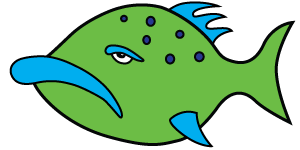
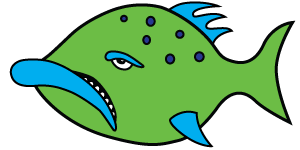
got both images on the bigBloater

Changed region(s): [[0.03, 0.3467, 0.42, 0.88], [0.33, 0.2933, 0.48, 0.48]]

diff --git a/ex042_spacefish.html b/ex042_spacefish.html
@@ -40,6 +40,8 @@
             var countInt = null;
             var enemyInt = null;
             var orbInt = null;
+            var imgShiftInt = null;
+            var imgShiftVal = 0;
             var enemyArray = [];
             var killCount = null;
             var lives = null;
@@ -156,6 +158,8 @@
                 this.y = Math.random() * canvas.height - this.h;
                 this.color = "green";
                 this.velx = -25;
+                this.imgSrcA = "img/bigBloaterA.png";
+                this.imgSrcB = "img/bigBloaterB.png";
                 this.updatePos = function() {
                     this.x += this.velx;
                 }
@@ -171,6 +175,8 @@
                 this.y = Math.random() * canvas.height - this.h;
                 this.color = "blue";
                 this.velx = -35;
+                this.imgSrcA = "img/bigBloaterA.png";
+                this.imgSrcB = "img/bigBloaterB.png";
                 this.updatePos = function() {
                     this.x += this.velx;
                 }
@@ -448,6 +454,10 @@
                 }
             }
 
+            function shiftImgSrc() {
+                imgShiftVal = (imgShiftVal == 0)? 1 : 0;
+            }
+
             function kill(i, j) {
                 for (i; i < blastArray.length - 1; i++) {
                     blastArray[i] = blastArray[i+1];
@@ -523,6 +533,7 @@
                 if (countInt) { window.clearInterval(countInt); }
                 if (enemyInt) { window.clearInterval(enemyInt); }
                 if (orbInt) { window.clearInterval(orbInt); }
+                if (imgShiftInt) { window.clearInterval(imgShiftInt); }
                 blastArray = [];
                 enemyArray = [];
                 orbArray = [];
@@ -539,6 +550,7 @@
                     countInt = setInterval(countdown, 1000);
                     enemyInt = setInterval(addEnemy, 1000);
                     orbInt = setInterval(addOrb, 1000);
+                    imgShiftInt = setInterval(shiftImgSrc, 1000);
                 }, 1000);
             }
 
@@ -689,7 +701,7 @@
 
                 for (var i = 0; i < enemyArray.length; i++) {
                     var img = new Image();
-                    img.src = 'img/bigBloater.png';
+                    img.src = (imgShiftVal == 0)? enemyArray[i].imgSrcA : enemyArray[i].imgSrcB;
                     bufferCanvasCtx.drawImage(img, enemyArray[i].x, enemyArray[i].y);
                  }
 
